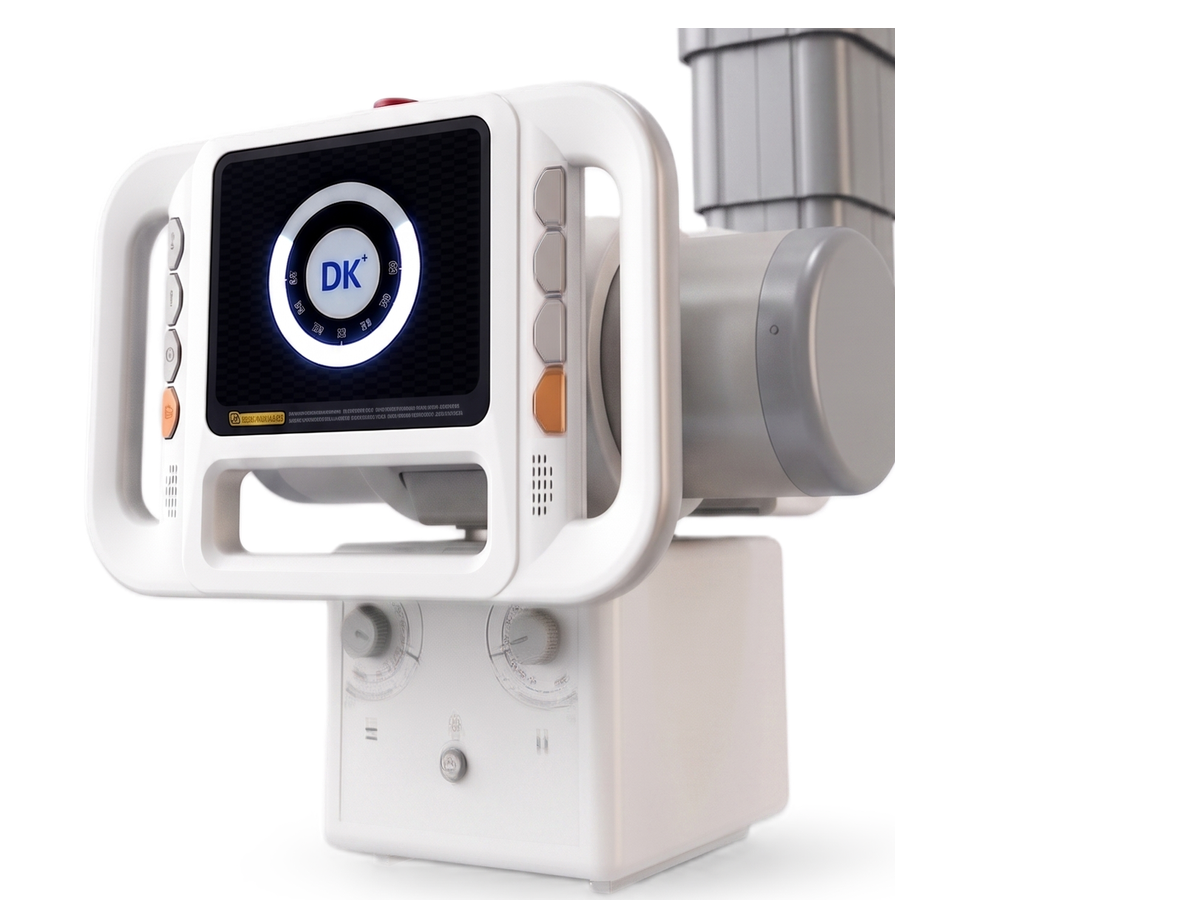
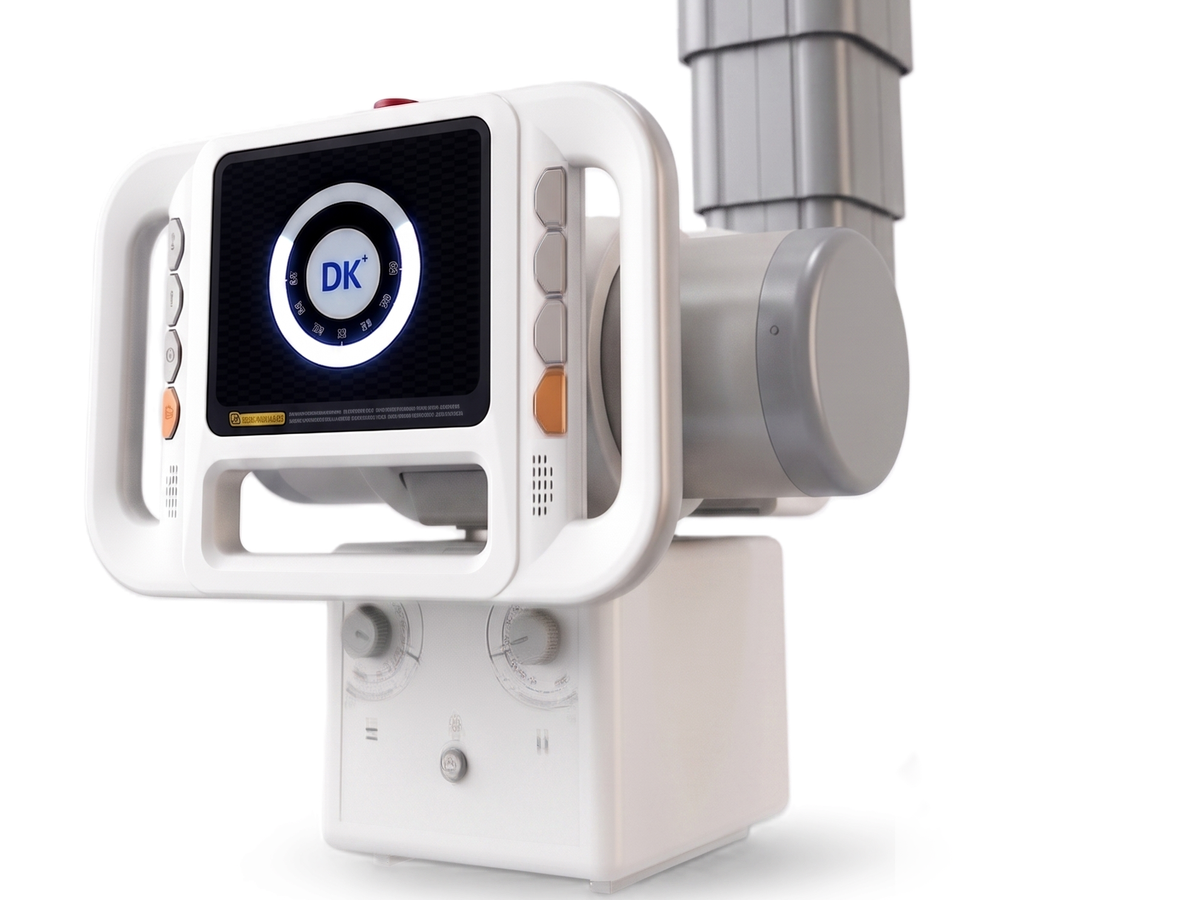
ELIN T4/T3 Plus thumbnails: full column like T5
Re-composited from the uncropped Showcase slide 4 originals (the slide crops off the
top and right), same scale and position as before, so the column now runs to the top.

diff --git a/docs/medivis/inquiry/index.html b/docs/medivis/inquiry/index.html
@@ -9,7 +9,7 @@
   <meta property="og:image" content="https://www.medivis.co.kr/common/medivis/img/main/main01.jpg">
   <link rel="icon" href="/uploads/favicon/1769137000724_favicon.ico">
   <link rel="stylesheet" href="/common/medivis/css/pretendardvariable.css">
-  <link rel="stylesheet" href="/assets/site.css?v=202611052305">
+  <link rel="stylesheet" href="/assets/site.css?v=202611052311">
 </head>
 <body>
   <header class="site-header">
@@ -85,7 +85,7 @@
       </div>
     </div>
   </footer>
-  <script src="/assets/site.js?v=202611052305"></script>
+  <script src="/assets/site.js?v=202611052311"></script>
   <script>initInquiry("https://formsubmit.co/ajax/info@medivis.co.kr", "info@medivis.co.kr");</script>
 </body>
 </html>

diff --git a/docs/medivis/policy/termsuse/index.html b/docs/medivis/policy/termsuse/index.html
@@ -9,7 +9,7 @@
   <meta property="og:image" content="https://www.medivis.co.kr/common/medivis/img/main/main01.jpg">
   <link rel="icon" href="/uploads/favicon/1769137000724_favicon.ico">
   <link rel="stylesheet" href="/common/medivis/css/pretendardvariable.css">
-  <link rel="stylesheet" href="/assets/site.css?v=202611052305">
+  <link rel="stylesheet" href="/assets/site.css?v=202611052311">
 </head>
 <body>
   <header class="site-header">
@@ -118,6 +118,6 @@ No content may be copied, reproduced, distributed, or otherwise used without the
       </div>
     </div>
   </footer>
-  <script src="/assets/site.js?v=202611052305"></script>
+  <script src="/assets/site.js?v=202611052311"></script>
 </body>
 </html>

diff --git a/docs/medivis/policy/privacy/index.html b/docs/medivis/policy/privacy/index.html
@@ -9,7 +9,7 @@
   <meta property="og:image" content="https://www.medivis.co.kr/common/medivis/img/main/main01.jpg">
   <link rel="icon" href="/uploads/favicon/1769137000724_favicon.ico">
   <link rel="stylesheet" href="/common/medivis/css/pretendardvariable.css">
-  <link rel="stylesheet" href="/assets/site.css?v=202611052305">
+  <link rel="stylesheet" href="/assets/site.css?v=202611052311">
 </head>
 <body>
   <header class="site-header">
@@ -164,6 +164,6 @@ Any updates will be posted on this website.</p>
       </div>
     </div>
   </footer>
-  <script src="/assets/site.js?v=202611052305"></script>
+  <script src="/assets/site.js?v=202611052311"></script>
 </body>
 </html>

diff --git a/docs/index.html b/docs/index.html
@@ -9,7 +9,7 @@
   <meta property="og:image" content="https://www.medivis.co.kr/common/medivis/img/main/main01.jpg">
   <link rel="icon" href="/uploads/favicon/1769137000724_favicon.ico">
   <link rel="stylesheet" href="/common/medivis/css/pretendardvariable.css">
-  <link rel="stylesheet" href="/assets/site.css?v=202611052305">
+  <link rel="stylesheet" href="/assets/site.css?v=202611052311">
 </head>
 <body>
   <header class="site-header is-transparent">
@@ -117,6 +117,6 @@
       </div>
     </div>
   </footer>
-  <script src="/assets/site.js?v=202611052305"></script>
+  <script src="/assets/site.js?v=202611052311"></script>
 </body>
 </html>

diff --git a/docs/medivis/product/view/96/Digital/index.html b/docs/medivis/product/view/96/Digital/index.html
@@ -9,7 +9,7 @@
   <meta property="og:image" content="https://www.medivis.co.kr/common/medivis/img/main/main01.jpg">
   <link rel="icon" href="/uploads/favicon/1769137000724_favicon.ico">
   <link rel="stylesheet" href="/common/medivis/css/pretendardvariable.css">
-  <link rel="stylesheet" href="/assets/site.css?v=202611052305">
+  <link rel="stylesheet" href="/assets/site.css?v=202611052311">
 </head>
 <body>
   <header class="site-header">
@@ -121,6 +121,6 @@
       </div>
     </div>
   </footer>
-  <script src="/assets/site.js?v=202611052305"></script>
+  <script src="/assets/site.js?v=202611052311"></script>
 </body>
 </html>

diff --git a/docs/medivis/product/xray/index.html b/docs/medivis/product/xray/index.html
@@ -9,7 +9,7 @@
   <meta property="og:image" content="https://www.medivis.co.kr/common/medivis/img/main/main01.jpg">
   <link rel="icon" href="/uploads/favicon/1769137000724_favicon.ico">
   <link rel="stylesheet" href="/common/medivis/css/pretendardvariable.css">
-  <link rel="stylesheet" href="/assets/site.css?v=202611052305">
+  <link rel="stylesheet" href="/assets/site.css?v=202611052311">
 </head>
 <body>
   <header class="site-header">
@@ -112,6 +112,6 @@
       </div>
     </div>
   </footer>
-  <script src="/assets/site.js?v=202611052305"></script>
+  <script src="/assets/site.js?v=202611052311"></script>
 </body>
 </html>

diff --git a/docs/404.html b/docs/404.html
@@ -9,7 +9,7 @@
   <meta property="og:image" content="https://www.medivis.co.kr/common/medivis/img/main/main01.jpg">
   <link rel="icon" href="/uploads/favicon/1769137000724_favicon.ico">
   <link rel="stylesheet" href="/common/medivis/css/pretendardvariable.css">
-  <link rel="stylesheet" href="/assets/site.css?v=202611052305">
+  <link rel="stylesheet" href="/assets/site.css?v=202611052311">
 </head>
 <body>
   <header class="site-header">
@@ -64,6 +64,6 @@
       </div>
     </div>
   </footer>
-  <script src="/assets/site.js?v=202611052305"></script>
+  <script src="/assets/site.js?v=202611052311"></script>
 </body>
 </html>

diff --git a/docs/medivis/about/index.html b/docs/medivis/about/index.html
@@ -9,7 +9,7 @@
   <meta property="og:image" content="https://www.medivis.co.kr/common/medivis/img/main/main01.jpg">
   <link rel="icon" href="/uploads/favicon/1769137000724_favicon.ico">
   <link rel="stylesheet" href="/common/medivis/css/pretendardvariable.css">
-  <link rel="stylesheet" href="/assets/site.css?v=202611052305">
+  <link rel="stylesheet" href="/assets/site.css?v=202611052311">
 </head>
 <body>
   <header class="site-header">
@@ -86,6 +86,6 @@
       </div>
     </div>
   </footer>
-  <script src="/assets/site.js?v=202611052305"></script>
+  <script src="/assets/site.js?v=202611052311"></script>
 </body>
 </html>

diff --git a/docs/medivis/location/index.html b/docs/medivis/location/index.html
@@ -9,7 +9,7 @@
   <meta property="og:image" content="https://www.medivis.co.kr/common/medivis/img/main/main01.jpg">
   <link rel="icon" href="/uploads/favicon/1769137000724_favicon.ico">
   <link rel="stylesheet" href="/common/medivis/css/pretendardvariable.css">
-  <link rel="stylesheet" href="/assets/site.css?v=202611052305">
+  <link rel="stylesheet" href="/assets/site.css?v=202611052311">
 </head>
 <body>
   <header class="site-header">
@@ -74,6 +74,6 @@
       </div>
     </div>
   </footer>
-  <script src="/assets/site.js?v=202611052305"></script>
+  <script src="/assets/site.js?v=202611052311"></script>
 </body>
 </html>

diff --git a/docs/medivis/marketing/index.html b/docs/medivis/marketing/index.html
@@ -9,7 +9,7 @@
   <meta property="og:image" content="https://www.medivis.co.kr/common/medivis/img/main/main01.jpg">
   <link rel="icon" href="/uploads/favicon/1769137000724_favicon.ico">
   <link rel="stylesheet" href="/common/medivis/css/pretendardvariable.css">
-  <link rel="stylesheet" href="/assets/site.css?v=202611052305">
+  <link rel="stylesheet" href="/assets/site.css?v=202611052311">
 </head>
 <body>
   <header class="site-header">
@@ -73,6 +73,6 @@
       </div>
     </div>
   </footer>
-  <script src="/assets/site.js?v=202611052305"></script>
+  <script src="/assets/site.js?v=202611052311"></script>
 </body>
 </html>

diff --git a/docs/medivis/mission/index.html b/docs/medivis/mission/index.html
@@ -9,7 +9,7 @@
   <meta property="og:image" content="https://www.medivis.co.kr/common/medivis/img/main/main01.jpg">
   <link rel="icon" href="/uploads/favicon/1769137000724_favicon.ico">
   <link rel="stylesheet" href="/common/medivis/css/pretendardvariable.css">
-  <link rel="stylesheet" href="/assets/site.css?v=202611052305">
+  <link rel="stylesheet" href="/assets/site.css?v=202611052311">
 </head>
 <body>
   <header class="site-header">
@@ -81,6 +81,6 @@
       </div>
     </div>
   </footer>
-  <script src="/assets/site.js?v=202611052305"></script>
+  <script src="/assets/site.js?v=202611052311"></script>
 </body>
 </html>

diff --git a/docs/medivis/partners/index.html b/docs/medivis/partners/index.html
@@ -9,7 +9,7 @@
   <meta property="og:image" content="https://www.medivis.co.kr/common/medivis/img/main/main01.jpg">
   <link rel="icon" href="/uploads/favicon/1769137000724_favicon.ico">
   <link rel="stylesheet" href="/common/medivis/css/pretendardvariable.css">
-  <link rel="stylesheet" href="/assets/site.css?v=202611052305">
+  <link rel="stylesheet" href="/assets/site.css?v=202611052311">
 </head>
 <body>
   <header class="site-header">
@@ -78,6 +78,6 @@
       </div>
     </div>
   </footer>
-  <script src="/assets/site.js?v=202611052305"></script>
+  <script src="/assets/site.js?v=202611052311"></script>
 </body>
 </html>
